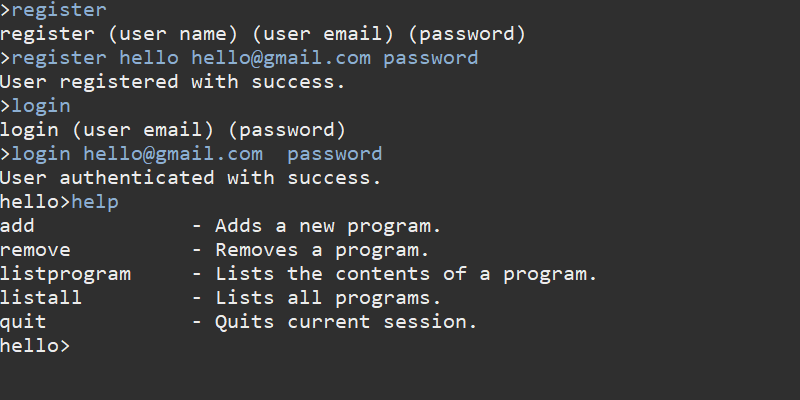
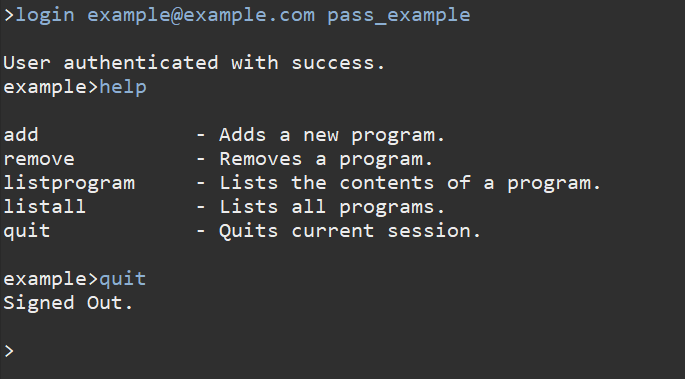
Altered images

Changed region(s): [[0.0, 0.0, 0.8891, 0.9288]]

diff --git a/src/Main.java b/src/Main.java
@@ -21,7 +21,9 @@ public class Main {
 		String option = getCommand(in);
 
 		while (!option.equals("exit")) {
+			System.out.println();
 			execOption(in, fh, option);
+			System.out.println();
 			option = getCommand(in);
 		}
 
@@ -200,7 +202,9 @@ public class Main {
 		String option = getUserCommand(in, hl.getUser());
 
 		while (!option.equals("quit")) {
+			System.out.println();
 			execUserOptions(in, hl, option);
+			System.out.println();
 			option = getUserCommand(in, hl.getUser());
 		}
 		hl.clearSession();
@@ -395,7 +399,8 @@ public class Main {
 				for (int i = 0; i < extra.length; i++) {
 					System.out.print("extra: " + extra[i] + "\n");
 				}
-			System.out.println();
+			if (it.hasNext())
+				System.out.println();
 		}
 	}
 }
